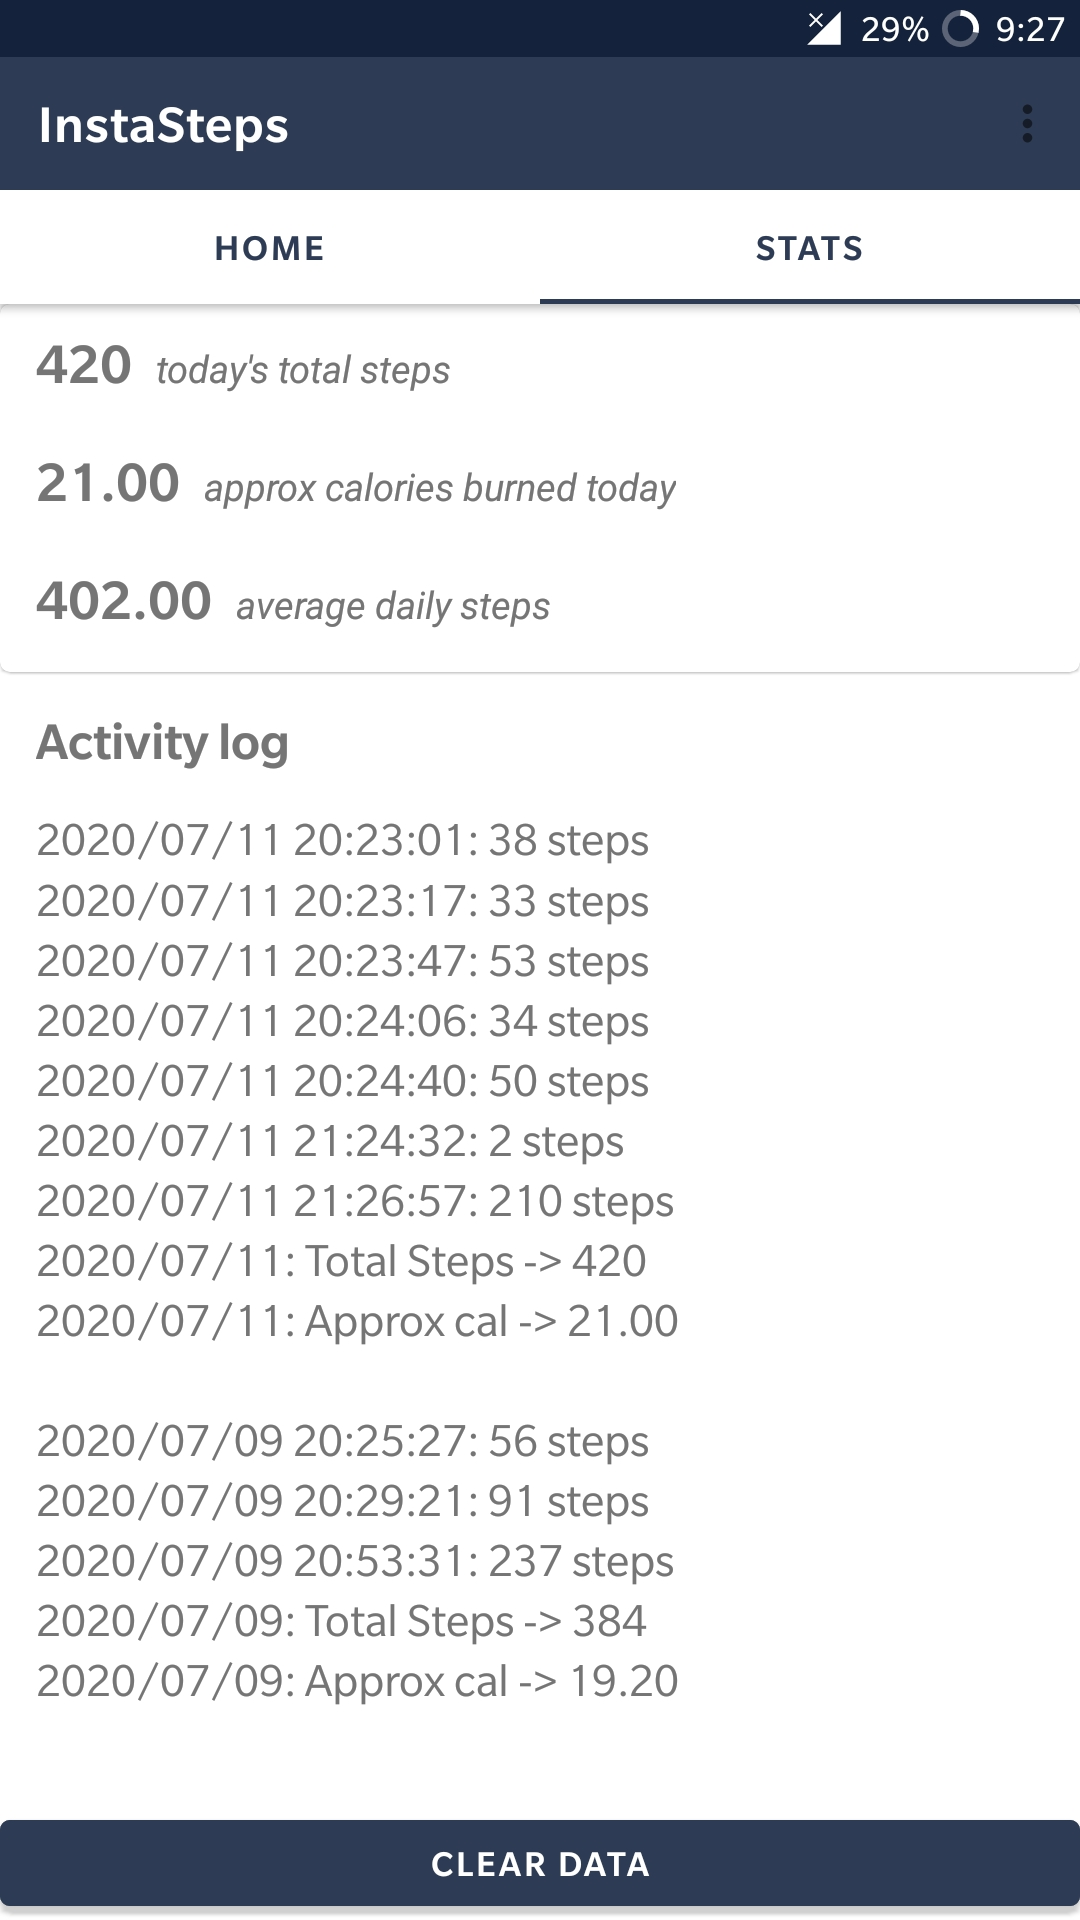
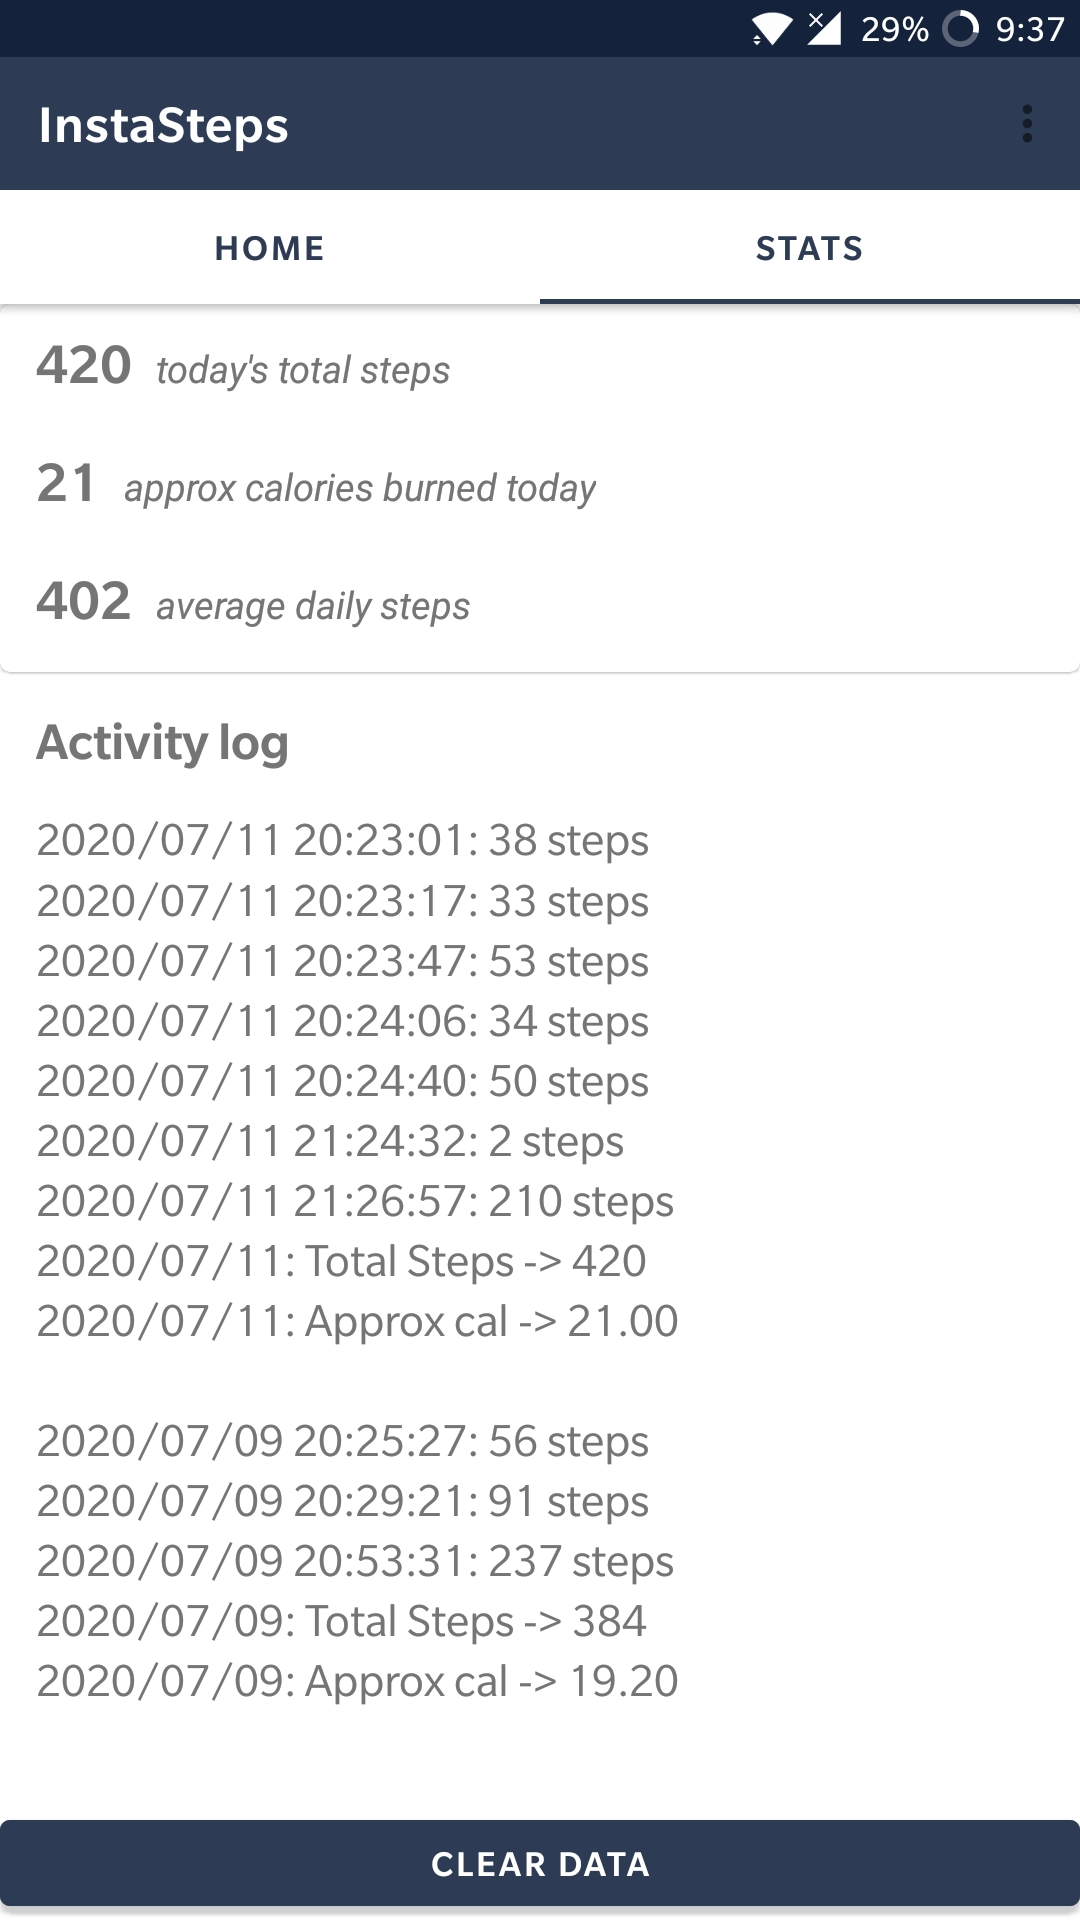
cast to int if whole number

Changed region(s): [[0.0917, 0.2188, 0.6111, 0.3438], [0.7028, 0.0, 0.7333, 0.0312]]

diff --git a/app/src/main/java/com/example/instasteps/Fragment2.java b/app/src/main/java/com/example/instasteps/Fragment2.java
@@ -63,7 +63,7 @@ public class Fragment2 extends Fragment {
 //    HashMap<String, ArrayList<String>> map;
     ArrayList<String>str;
     ArrayList<String> tempData;
-    private Double overallDailyAverageSteps;
+    private double overallDailyAverageSteps;
     private MaterialCardView materialcCard;
 
     public Fragment2() {
@@ -277,8 +277,16 @@ public class Fragment2 extends Fragment {
         double total_cal_burned_today = 0.05 * todaysTotal;
         //tv4.setText("Todays total steps: "+todaysTotal+"\nApprox Calories burned today: "+ String.format("%.2f", total_cal_burned_today) +" cal" +"\nAverage daily steps: "+ String.format("%.2f", overallDailyAverageSteps));
         tv4.setText(""+todaysTotal);
-        tv6.setText(String.format("%.2f", total_cal_burned_today));
-        tv8.setText(String.format("%.2f", overallDailyAverageSteps));
+        if((int)total_cal_burned_today==total_cal_burned_today) {
+            tv6.setText(""+(int)total_cal_burned_today);
+        }else{
+            tv6.setText(String.format("%.2f", total_cal_burned_today));
+        }
+        if((int)overallDailyAverageSteps==overallDailyAverageSteps) {
+            tv8.setText(""+(int)overallDailyAverageSteps);
+        }else{
+            tv8.setText(String.format("%.2f", overallDailyAverageSteps));
+        }
     }
 
 
